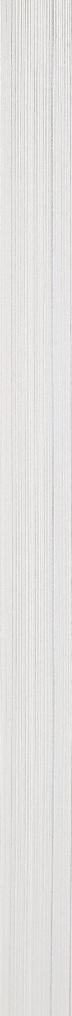
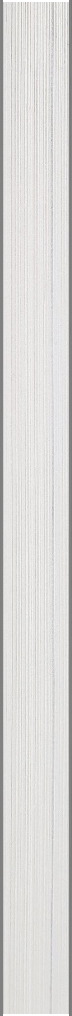
Book Side Cover Sizing

Changed region(s): [[0.9444, 0.0, 1.0, 1.0], [0.0, 0.0, 0.0556, 1.0]]

diff --git a/src/js/portfolio.js b/src/js/portfolio.js
@@ -4,7 +4,7 @@ var subpage = 0;
 var scrollReady     = 0;
 var scrollMode      = 0;
 var switching_spd   = 1.5;
-
+const clamp = (num, min, max) => Math.min(Math.max(num, min), max);
 
 var book = document.querySelector(".book");
 var bookcover = document.querySelector(".book-cover");
@@ -50,8 +50,22 @@ $(window).on('orientationchange', function() {
 
     var cur_subpage = 0;
     //$('.book-con').hide();
-    
+
     $(document).ready(function() {
+
+        /* --- Book Side Cover Sizing --- */
+
+        var bookWidth = clamp(160, $('.book-cover').width(), 320);
+        console.log(bookWidth);
+
+        window.addEventListener('resize', function () {
+            bookWidth = clamp(160, $('.book-cover').width(), 320);
+            console.log(bookWidth);
+            $('.back-cover')
+                .css('transform','rotateY(180deg) translateZ('+bookWidth/5+'px)')
+        });
+        
+        /* --- Gallery Button Selecting --- */
 
         var openProjectPopup = function(index) {
 
@@ -91,53 +105,6 @@ $(window).on('orientationchange', function() {
                     .css('display','flex');
             }, 2000);
 
-            /*
-
-            //clearTimeout(timeout);
-
-            $('.lo-gallery-header')
-                .css('opacity','0')
-                //.css('width','0px')
-                //.css('height','0px')
-                .css('padding','0px')
-                .css('margin','0px')
-                .css('transition','1s');
-            $('.lo-gallery-header h1')
-                .css('height','0px')
-                .css('padding','0px')
-                .css('margin','0px')
-                .css('transition','1s');
-            var j = 0;
-            var a = 0;
-            var b = 0;
-            do {
-                j += 1;
-                a = 150 * (j + 1);
-                    setTimeout(function() {
-                        $('.port-img:'+"nth-of-type("+(b++)+")")
-                            .css('opacity','.0')
-                            .css('transition','.2s')
-                            //.css('height','0px')
-                            .css('width','0px');
-                            //.css('margin','0px');
-                    }, a);
-                console.log(a);
-            } while (j < 8);
-
-            //$('.port-img:'+img_index)
-                //.css('min-width','160px')
-                //.css('max-width','20vw')
-                //.css('width','320px')
-                //.css('min-height','240px')
-                //.css('height','30vw')
-                //.css('max-height','480px');
-
-            timeout = setTimeout(function() {
-                $('.lo-gallery-header').hide();
-                $('.port-img').not('.port-img:'+img_index).hide();
-                //$('.book-con').show();
-            }, 1750);
-        */
         }
 
         var galleryButton = function(index) {

diff --git a/src/css/bookani.css b/src/css/bookani.css
@@ -5,7 +5,7 @@
     align-items: center;
     width: 100%;
     height: 100vh;
-    perspective: 800px;
+    perspective: 1000px;
     z-index: 100;
 }
 
@@ -61,8 +61,12 @@
 .front-cover:after {
     content: "";
     position: absolute;
-    background-image: url("../images/DungeonRpg3.png");
-    width: 30px;
+    background-image: url("../images/bookDr3Side.png");
+
+    min-width: 32px;
+    width: 4vw;
+    max-width: 64px;
+
     height: 100%;
     background-size: 100% 100%;
     transform-origin: left;
@@ -83,6 +87,7 @@
     background-size: cover;
     background-position: center;
     
+    /* W:H = 2:3 */
     min-width: 160px;
     width: 20vw;
     max-width: 320px;
@@ -92,6 +97,5 @@
 
     filter: grayscale(40%);
 
-    background-image: url("../images/DungeonRpg3.png");
-    transform: rotateY(180deg) translateZ(30px);
+    background-image: url("../images/bookDr3Backcover.png");
 }

diff --git a/portfolio.html b/portfolio.html
@@ -1,7 +1,7 @@
 <div class="lo-con" style="height: 100%; overflow: hidden; display: flex; flex-direction: column;">
 
     <div class="lo-center-h">
-        <div class="book-con" style="left: -80%; background-color: antiquewhite; margin: auto;">
+        <div class="book-con" style="margin: auto;">
             <div class="book">
     
                 <div class="front-cover">
